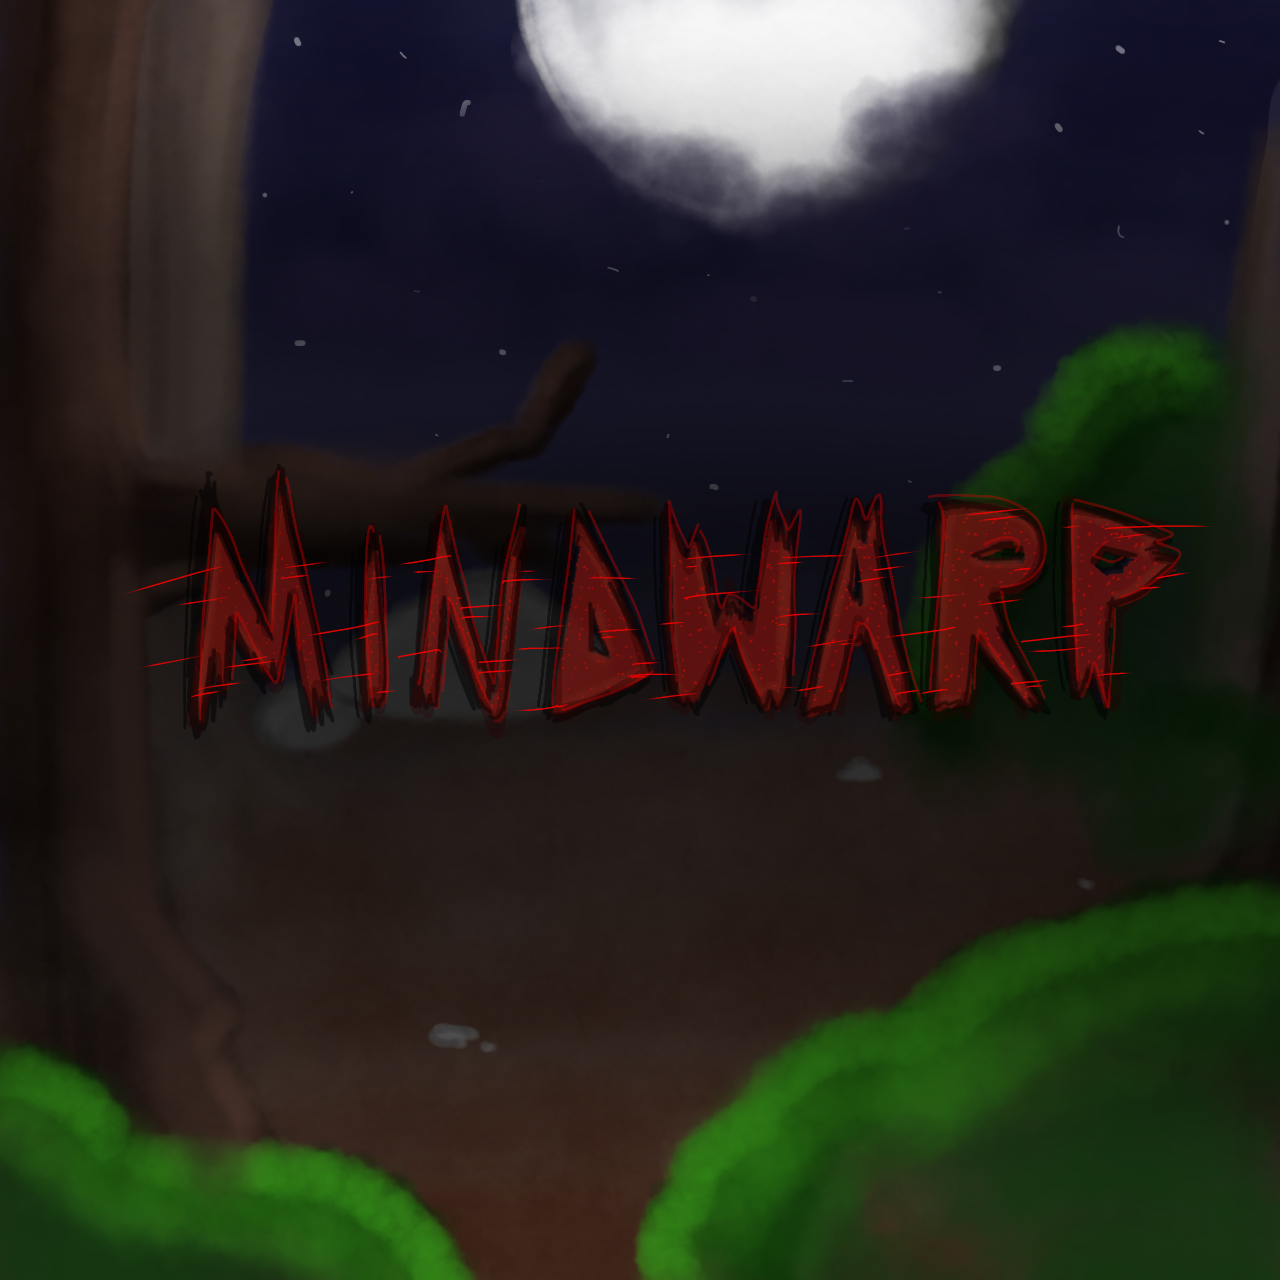
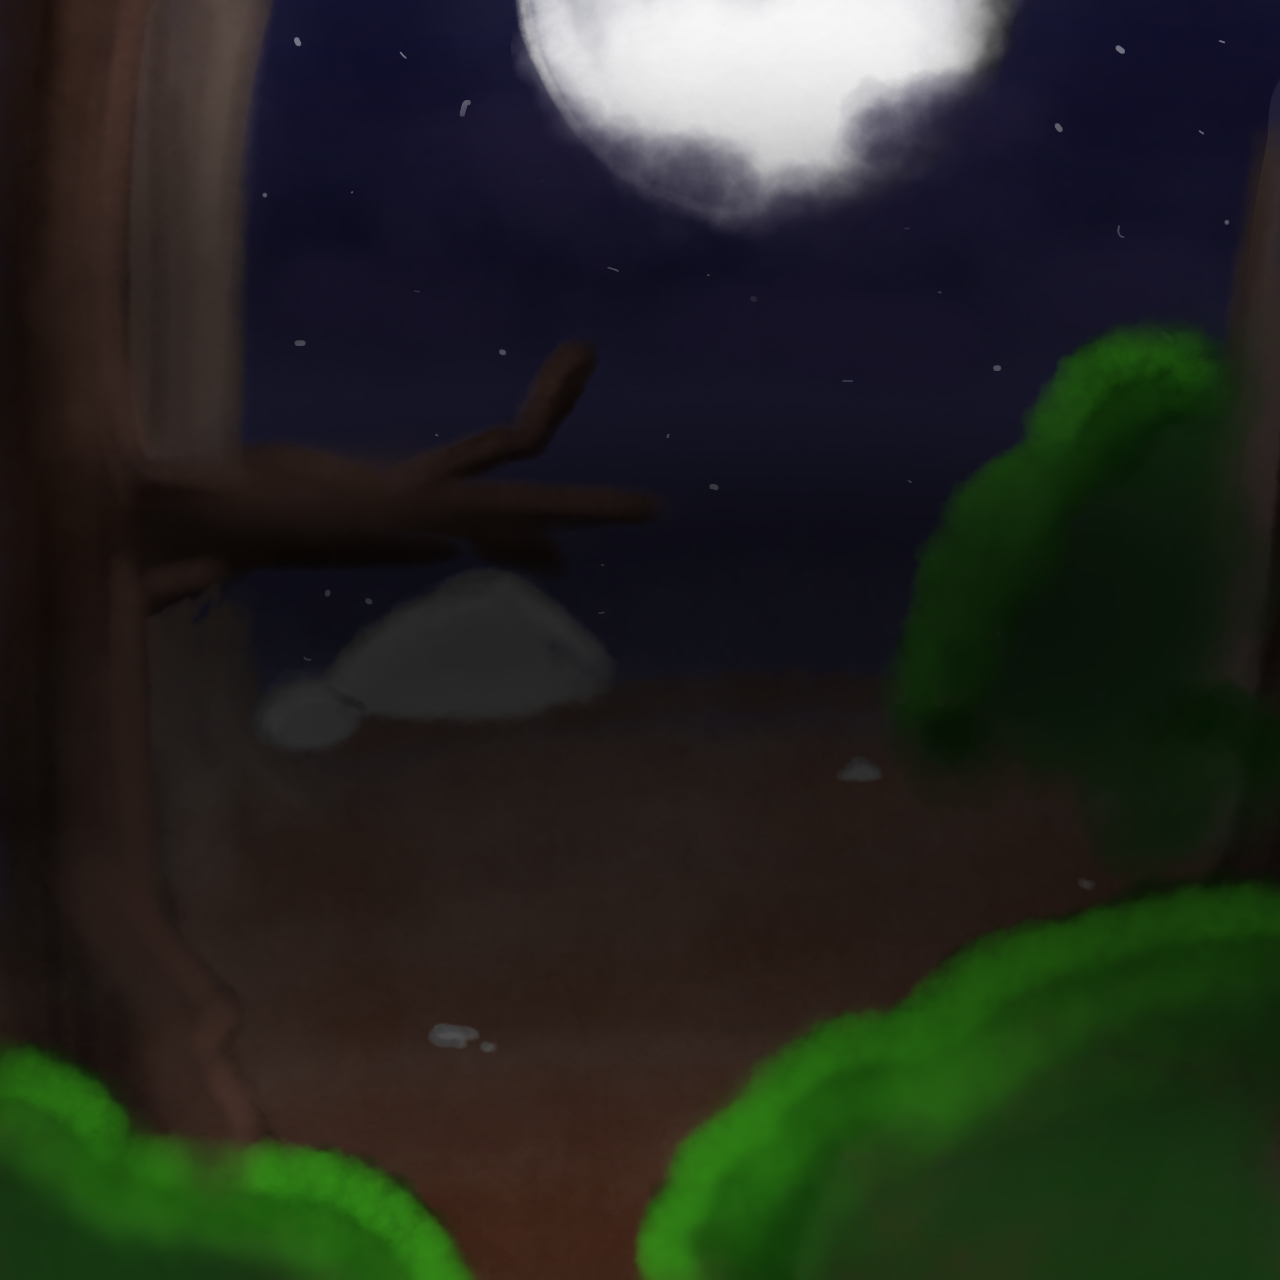
DIEDIEIDEI

Changed region(s): [[0.1562, 0.375, 0.9375, 0.5625]]

diff --git a/index.html b/index.html
@@ -1,16 +1,24 @@
+<!DOCTYPE html>
+<html>
 <head>
     <meta charset="utf-8" />
     <meta name="viewport" content="width=device-width" />
     <title> Mindwarp </title>
-    <link href="style.css" rel="stylesheet" type="text/css" />
+    <link href="style.css" rel="stylesheet" type="text/css"/>
     <script src="https://aframe.io/releases/1.1.0/aframe.min.js"></script>
     <script src="https://unpkg.com/aframe-environment-component/dist/aframe-environment-component.min.js"></script>
+    
   </head>
  
   <body>
     <img src="Images/Cogwheel.png" id="cogwheel" width="100">
-    <img src="Images/Play.png" id="play" width="350">
+    <img src="Images/Play.png" id="play" width="300">
+    <img src="Images/Text.png" id="text">
+
+    <button onclick="location.href='Settings/Settingspage.html'">AAAAAAAA</button>
+   
     <a-scene>
 
     </a-scene>
   </body>
+  </html>

diff --git a/style.css b/style.css
@@ -1,15 +1,15 @@
 body {
   background-image: url("/Images/Title.png");
   background-repeat: no-repeat;
-  background-size: 1370px 850px;
-background-position: left
+  background-size: 1366px 900px;
+background-position: center
   
 }
 
 #cogwheel {
   position: absolute;
   top: 10px;
-  right: 0px;
+  right: 20px;
   cursor: pointer;
   z-index: 10;
 }
@@ -19,13 +19,21 @@ background-position: left
 
 #play {
   position: absolute;
-  bottom: -120px;
+  bottom: 30px;
   right: 60px;
   cursor: pointer;
   z-index: 10;
+  
 }
 #play:hover {
+  box-shadow: 0 50px 18px 0 rgba(145, 7, 7, 0.424), 0 -20px 50px 0 rgb(191, 21, 21);
   transform: scale(1.1);
+}
+
+#text {
+  position: absolute;
+  center: 0px;
+  top: -200px;
 }
 h1 {
   color: white;

diff --git a/settings.css b/settings.css
@@ -1,0 +1,6 @@
+body {
+  background-image: url("/Images/BG.png");
+  background-repeat: no-repeat;
+  background-size: 1366px 900px;
+background-position: center
+}

diff --git a/Settings/Settingspage.html b/Settings/Settingspage.html
@@ -1,0 +1,10 @@
+<!DOCTYPE html>
+<html>
+    <head>
+
+ <link href="/settings.css" rel="stylesheet">
+    </head>
+    <body>
+
+    </body>
+</html>
